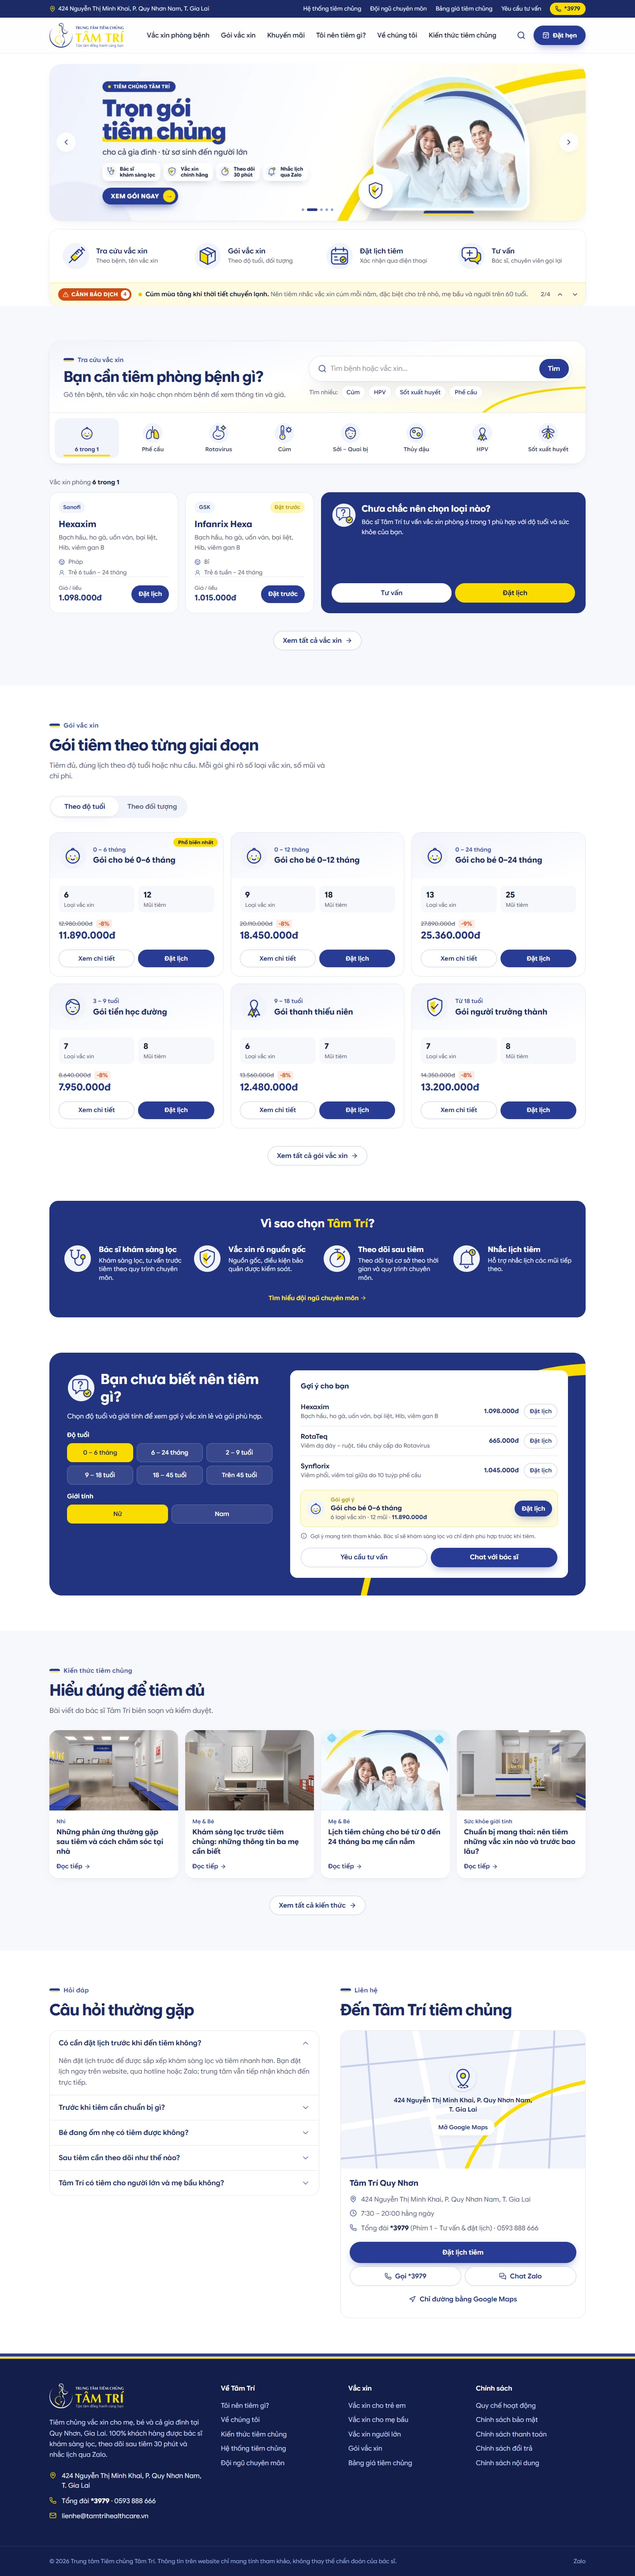
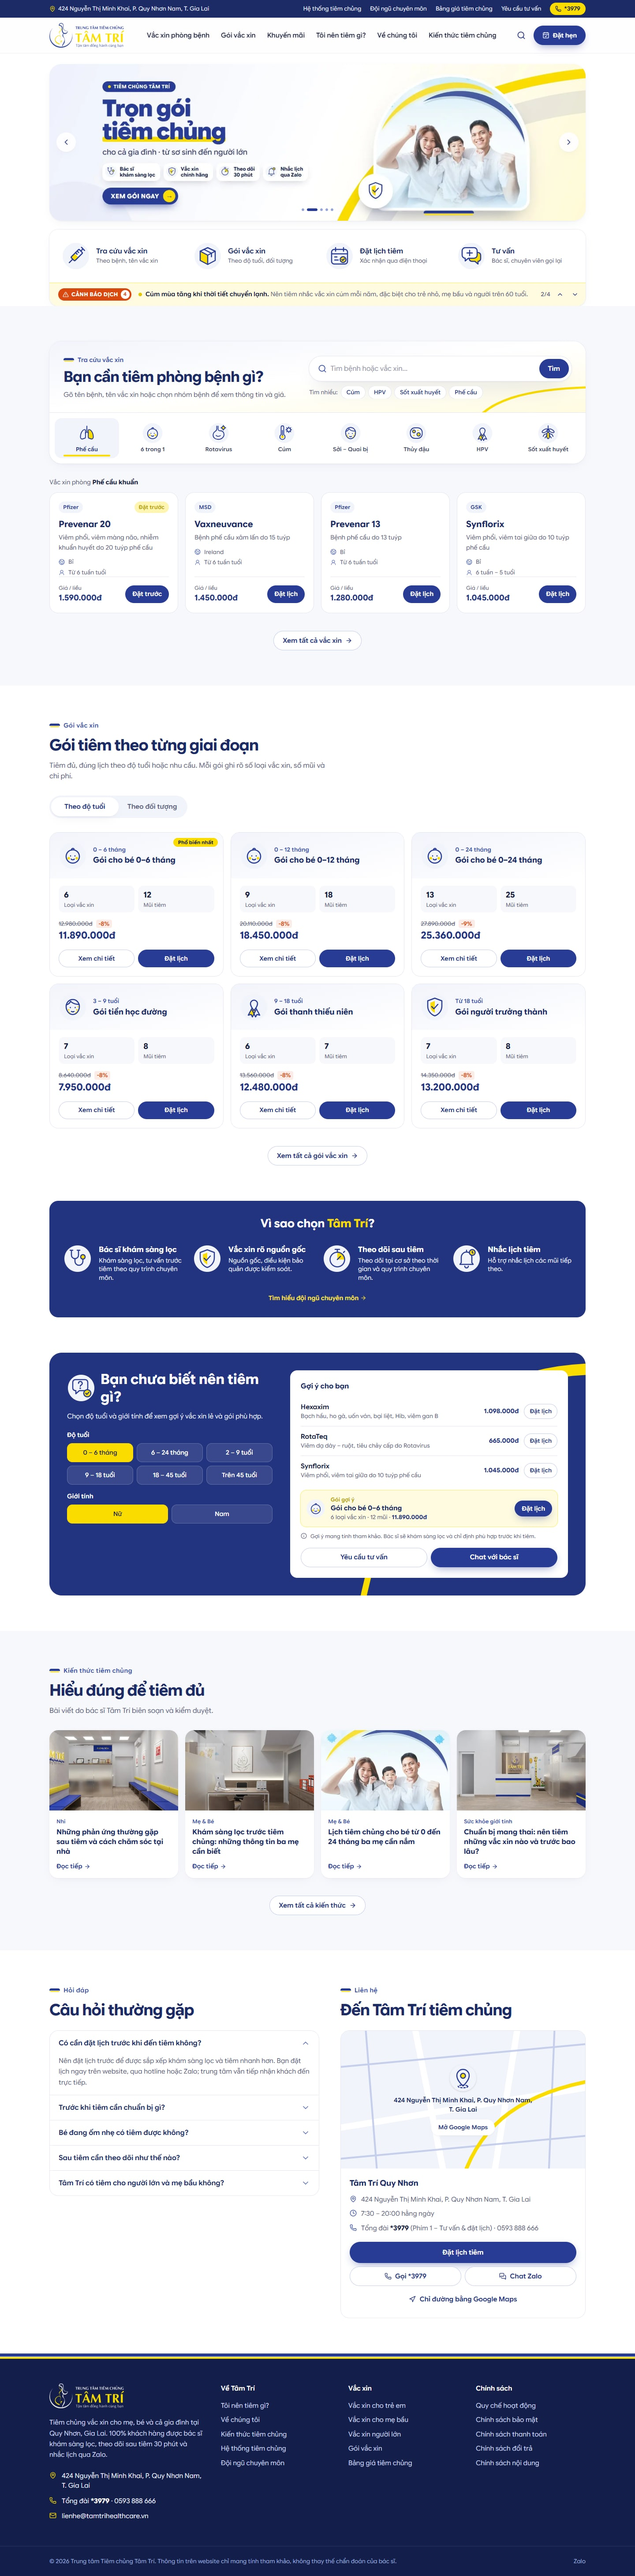
fix: bỏ thẻ tư vấn lấp chỗ trống, Phế cầu lên đầu, tên nhóm bệnh một dòng trên mobile

diff --git a/src/components/home/vaccine-finder.tsx b/src/components/home/vaccine-finder.tsx
@@ -4,10 +4,9 @@ import { ArrowRight, Search, X } from "lucide-react";
 import { useMemo, useState } from "react";
 
 import type { DiseaseGroup, Vaccine } from "@/content/types";
-import { BOOKING_HASH, CONSULT_HASH } from "@/lib/routes";
 import { normalizeForSearch } from "@/lib/search";
 
-import { AdvisorIcon, BrandIconByName } from "../icons/brand-icons";
+import { BrandIconByName } from "../icons/brand-icons";
 import { ButtonLink } from "../ui/button-link";
 import { VaccineCard } from "../vaccine/vaccine-card";
 
@@ -17,12 +16,6 @@ type Props = {
 };
 
 const MAX_RESULTS = 8;
-// Columns the consult card spans so a short row still fills the grid (2 cols md, 4 cols lg).
-const FILL_SPAN: Record<number, string> = {
-  1: "md:col-span-1 lg:col-span-3",
-  2: "md:col-span-2 lg:col-span-2",
-  3: "md:col-span-1 lg:col-span-1",
-};
 const POPULAR_TERMS = ["Cúm", "HPV", "Sốt xuất huyết", "Phế cầu"];
 
 /**
@@ -140,12 +133,12 @@ export function VaccineFinder({ groups, vaccines }: Props) {
                     setQuery("");
                     setActiveSlug(group.slug);
                   }}
-                  className={`relative flex w-[21%] shrink-0 flex-col items-center gap-1 rounded-xl px-0.5 pt-1.5 pb-2.5 text-center md:w-auto md:gap-1.5 md:rounded-2xl md:px-1 md:pt-2.5 md:pb-3 transition ${
+                  className={`relative flex min-w-[4.5rem] shrink-0 flex-col items-center gap-1 rounded-xl px-2.5 pt-1.5 pb-2.5 text-center md:min-w-0 md:px-1 md:gap-1.5 md:rounded-2xl md:px-1 md:pt-2.5 md:pb-3 transition ${
                     selected ? "bg-brand-50" : "hover:bg-canvas"
                   }`}
                 >
                   <BrandIconByName name={group.icon} className={`size-10 transition md:size-12 ${selected ? "scale-105" : ""}`} />
-                  <span className={`text-[11.5px] leading-tight font-semibold md:text-[12.5px] ${selected ? "text-brand-700" : "text-ink/80"}`}>{group.shortName}</span>
+                  <span className={`text-[11.5px] leading-tight font-semibold whitespace-nowrap md:text-[12.5px] ${selected ? "text-brand-700" : "text-ink/80"}`}>{group.shortName}</span>
                   {selected && <span className="absolute inset-x-4 bottom-1 h-1 rounded-full bg-sun-400 md:inset-x-5" />}
                 </button>
               );
@@ -174,11 +167,6 @@ export function VaccineFinder({ groups, vaccines }: Props) {
                   <VaccineCard vaccine={vaccine} />
                 </li>
               ))}
-              {results.length < 4 && (
-                <li className={`w-[70%] shrink-0 snap-start sm:w-[45%] md:w-auto ${FILL_SPAN[results.length]}`}>
-                  <ConsultCard topic={term ? query.trim() : active.name} />
-                </li>
-              )}
             </ul>
           ) : (
             <p className="rounded-2xl bg-white p-6 text-center text-muted">
@@ -195,30 +183,5 @@ export function VaccineFinder({ groups, vaccines }: Props) {
         </div>
       </div>
     </section>
-  );
-}
-
-/** Fills empty grid space with a nudge to ask a doctor or book directly. */
-function ConsultCard({ topic }: { topic: string }) {
-  return (
-    <div className="flex h-full flex-col justify-between gap-4 rounded-2xl bg-brand-700 p-4 text-white md:rounded-[var(--radius-card)] md:p-6">
-      <div className="flex items-start gap-3">
-        <AdvisorIcon className="size-12 shrink-0 md:size-14" />
-        <div>
-          <p className="text-[17px] leading-snug font-bold md:text-xl">Chưa chắc nên chọn loại nào?</p>
-          <p className="mt-1 text-[13px] leading-relaxed text-brand-100 md:text-[14px]">
-            Bác sĩ Tâm Trí tư vấn vắc xin phòng {topic} phù hợp với độ tuổi và sức khỏe của bạn.
-          </p>
-        </div>
-      </div>
-      <div className="grid grid-cols-2 gap-2">
-        <ButtonLink href={CONSULT_HASH} variant="white" className="h-10 px-3 text-[14px]">
-          Tư vấn
-        </ButtonLink>
-        <ButtonLink href={BOOKING_HASH} variant="sun" className="h-10 px-3 text-[14px] shadow-none">
-          Đặt lịch
-        </ButtonLink>
-      </div>
-    </div>
   );
 }

diff --git a/src/content/catalog.ts b/src/content/catalog.ts
@@ -2,12 +2,12 @@ import type { DiseaseGroup, Vaccine, VaccinePackage } from "./types";
 
 // Groups and brand names come from the client's "Danh mục tổng hợp vắc xin".
 // Prices are sample values until the admin enters the real price list.
-// `featured` groups show as tiles on the homepage, in this order (the baby's
-// schedule first). The rest stay reachable through search. Sample choice of
+// `featured` groups show as tiles on the homepage, in this order. Phế cầu leads
+// because the first group opens selected and it fills a full row of 4 cards. The rest stay reachable through search. Sample choice of
 // 8 groups (2026-10-26) until the client picks their own in the admin.
 export const diseaseGroups: DiseaseGroup[] = [
-  { slug: "6-trong-1", name: "6 trong 1", shortName: "6 trong 1", icon: "baby", featured: true },
   { slug: "phe-cau", name: "Phế cầu khuẩn", shortName: "Phế cầu", icon: "lungs", featured: true },
+  { slug: "6-trong-1", name: "6 trong 1", shortName: "6 trong 1", icon: "baby", featured: true },
   { slug: "rotavirus", name: "Tiêu chảy do Rotavirus", shortName: "Rotavirus", icon: "rotavirus", featured: true },
   { slug: "cum", name: "Cúm mùa", shortName: "Cúm", icon: "influenza", featured: true },
   { slug: "soi-quai-bi-rubella", name: "Sởi – Quai bị – Rubella", shortName: "Sởi – Quai bị", icon: "rash", featured: true },
